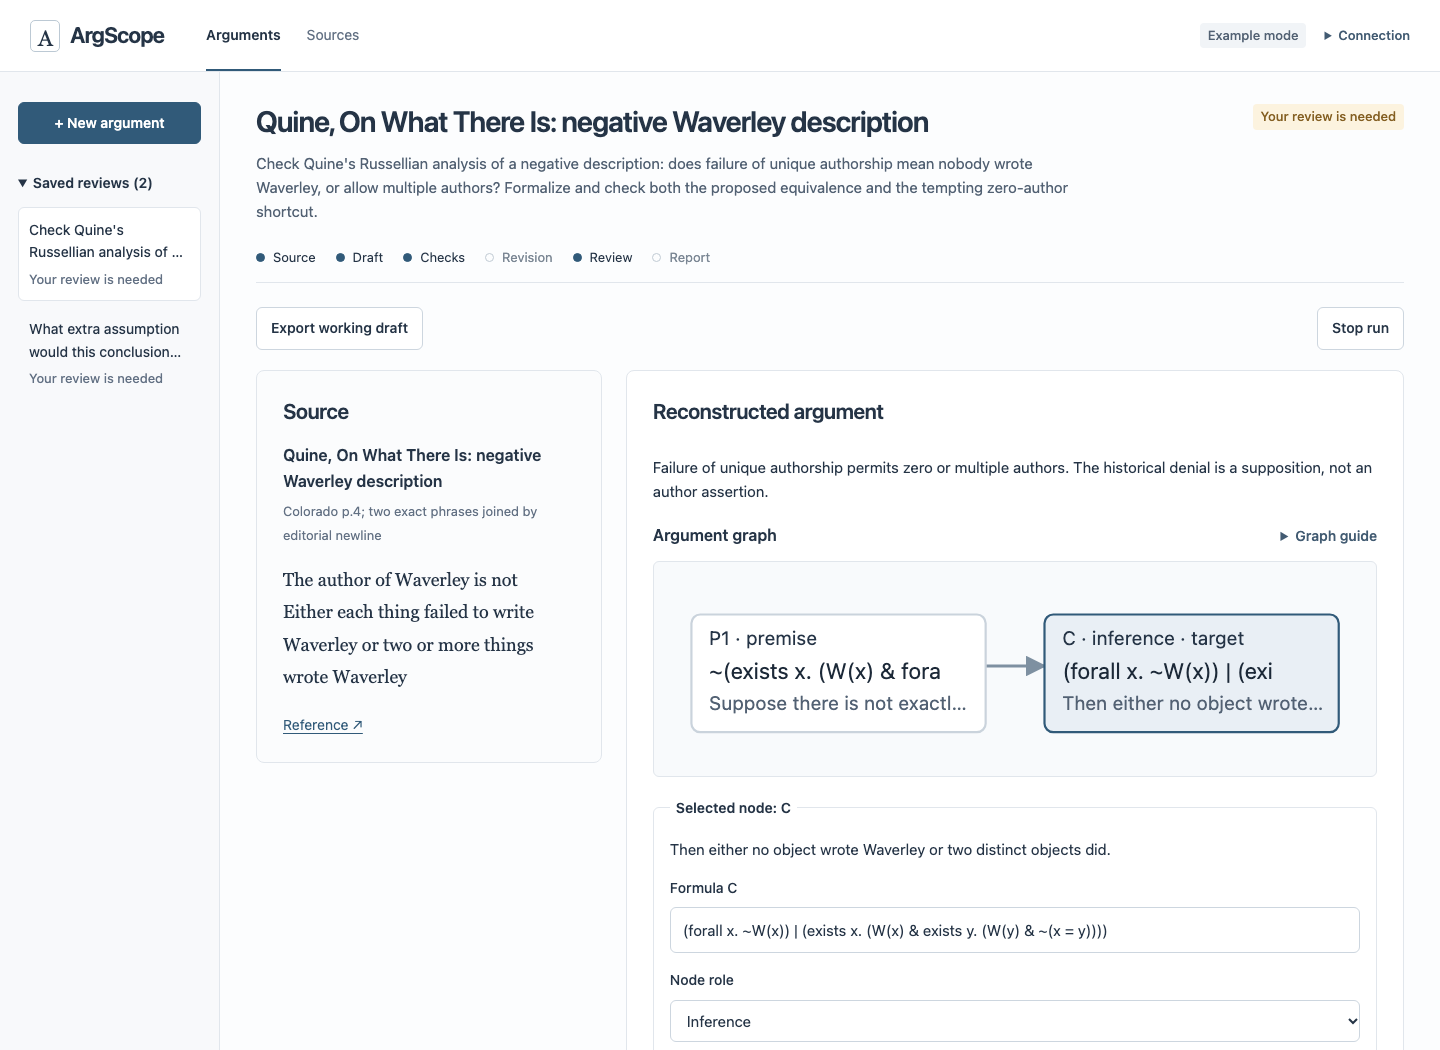
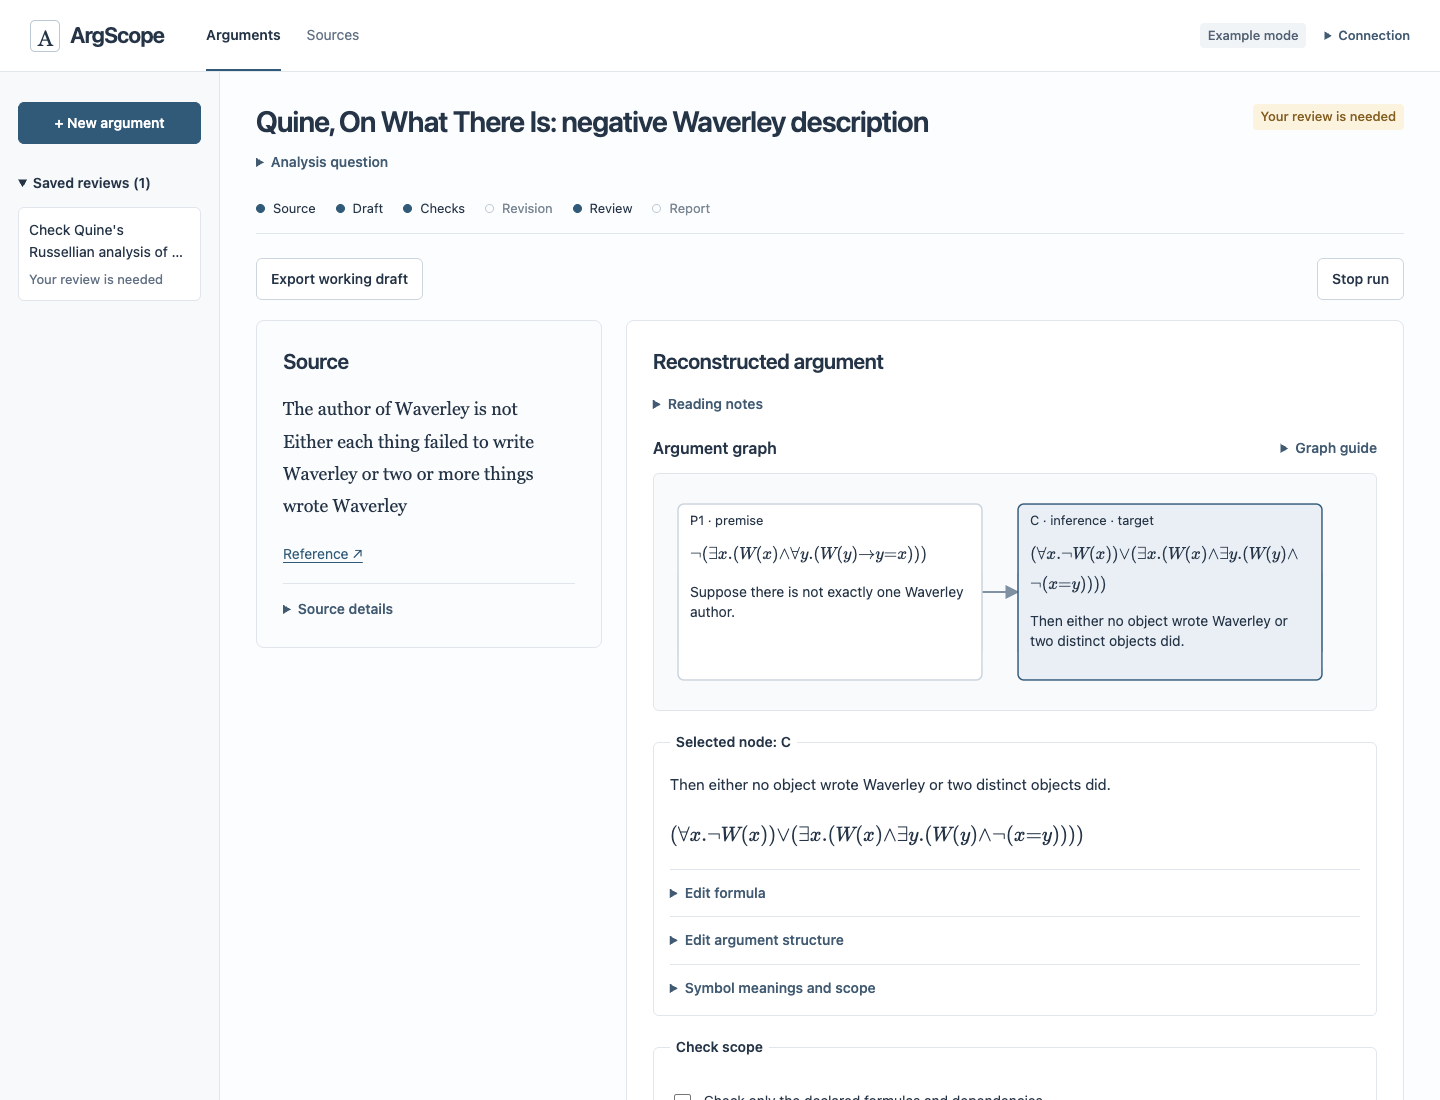
docs: update formula interface screenshot and usage

diff --git a/README.md b/README.md
@@ -25,9 +25,10 @@ compare saved versions, and export the resulting review.
 ![Quine example: source passage, argument graph and formula editor](workbench/docs/assets/review.png)
 
 The example examines whether denying a unique author means no author, or also
-permits multiple authors. The source passage stays on the left; the editable
-premises, conclusion and formula controls are on the right. Selecting a graph
-node opens its formula and joint dependencies.
+permits multiple authors. The source passage stays on the left; the argument
+graph and typeset formulas are on the right. Select a graph node to read its
+complete formula. Open “Edit formula” or “Edit argument structure” to change the
+saved text notation and joint dependencies.
 
 New reviews open with empty source and question fields. This optional offline
 example supplies an authored reconstruction and uses the application's normal
